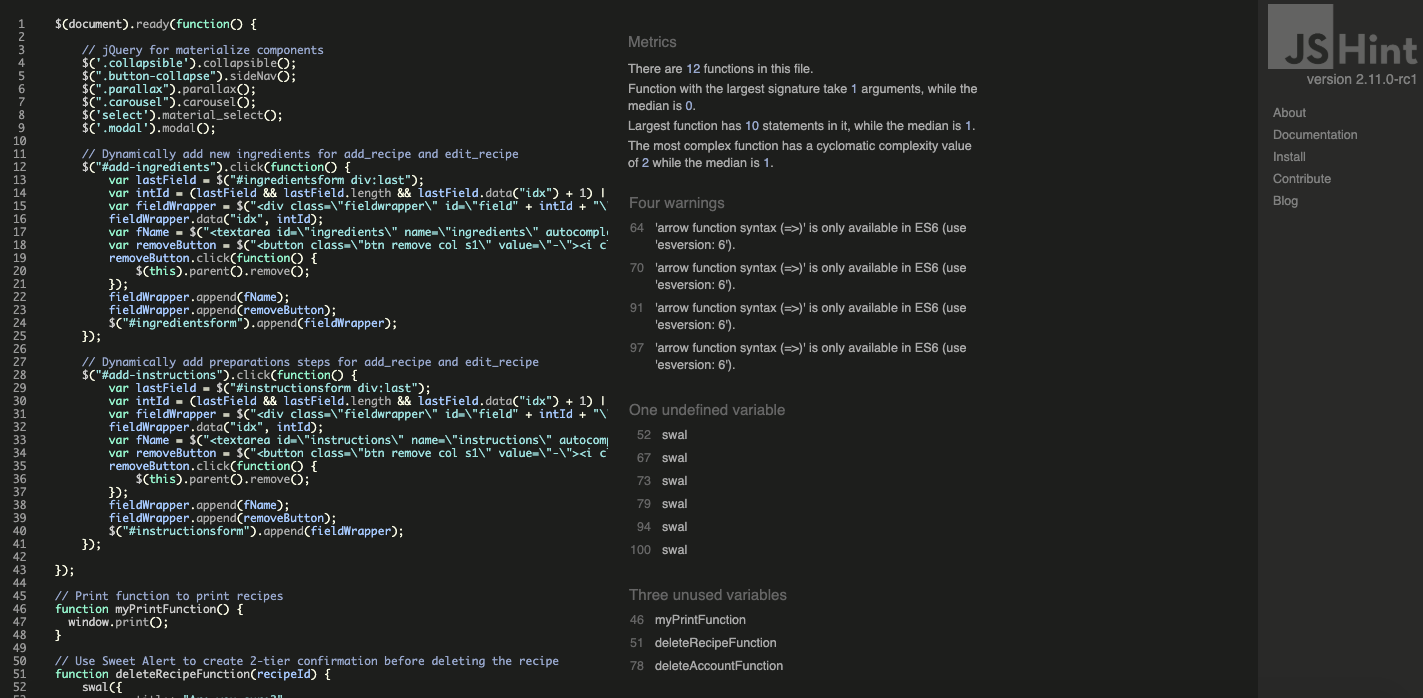
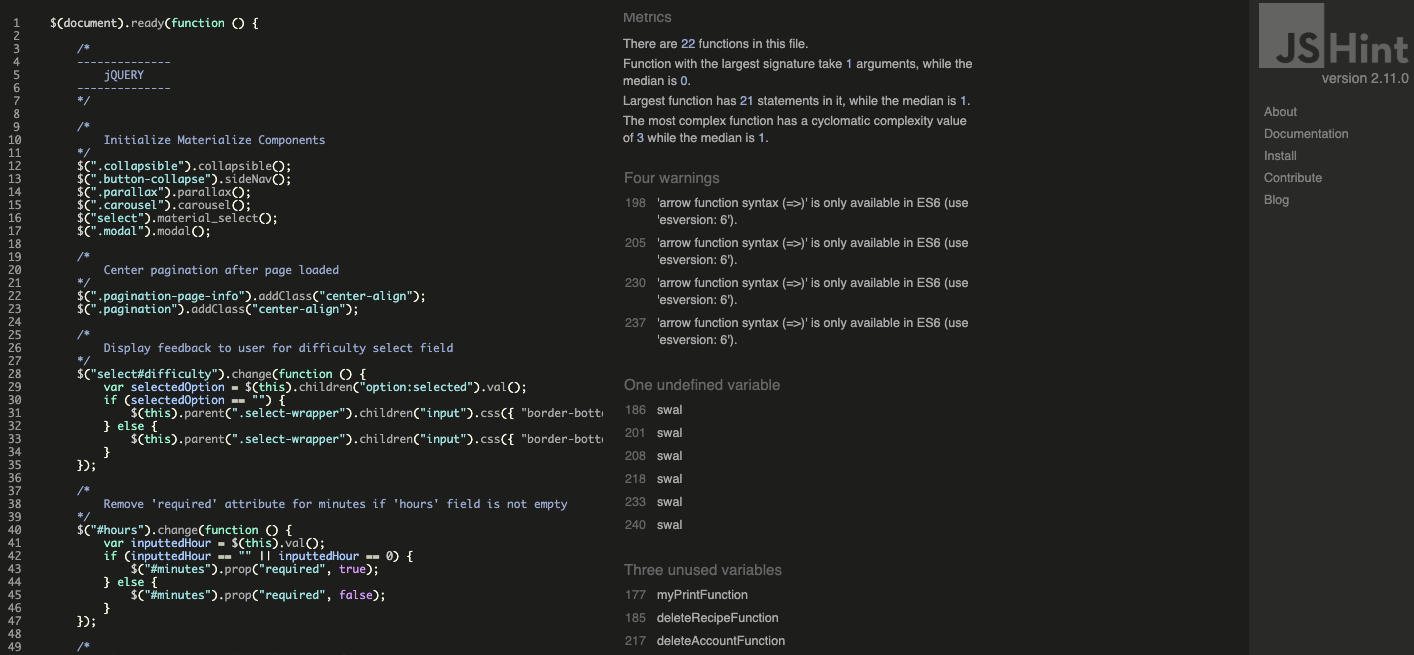
Updated automated test using jshint with the latest version of script.js

Changed region(s): [[0.0, 0.0, 0.6846, 1.0], [0.8713, 0.1527, 0.9646, 0.3053], [0.9024, 0.0611, 0.9958, 0.1221]]

diff --git a/testing/TESTING.md b/testing/TESTING.md
@@ -41,10 +41,10 @@ My style.css file succesfully passed this [CSS code validator](https://jigsaw.w3
 My JS file was passed through [JS Hint](https://jshint.com/), please find below the information provided by the code validator. 
 
 **Metrics:**
-- There are 12 functions in this file. 
+- There are 22 functions in this file. 
 - Function with the largest signature take 1 arguments, while the median is 0.
-- Largest function has 10 statements in it, while the median is 1.
-- The most complex function has a cyclomatic complexity value of 2 while the median is 1.
+- Largest function has 21 statements in it, while the median is 1.
+-The most complex function has a cyclomatic complexity value of 3 while the median is 1.
 
 **Warnings:**
 - Arrow function syntax `=>` is only available in ES6 (use 'esversion: 6').
